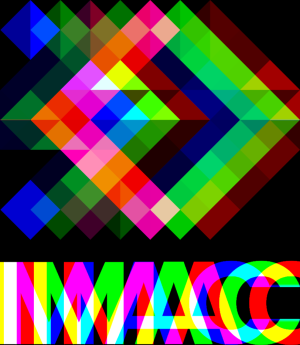
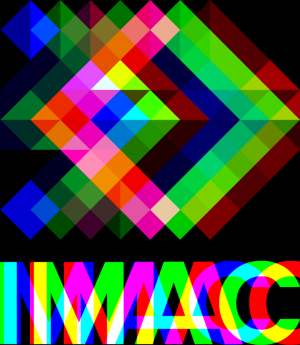
🤏 [Rgb Split] When sampling outside the image, use black instead of clamping to the nearest pixel

Changed region(s): [[0.0, 0.7536, 0.12, 1.0], [0.9, 0.8986, 1.0, 0.9565], [0.9, 0.8116, 1.0, 0.8406]]

diff --git a/src/RGB split.cpp b/src/RGB split.cpp
@@ -1,5 +1,16 @@
 #include "RGB split.hpp"
 
+// If the (x, y) coordinates are invalid, returns black instead of returning the pixel of the image.
+glm::vec3 sample_with_check(sil::Image const& image, int x, int y)
+{
+    if (x < 0 || x >= image.width() ||
+        y < 0 || y >= image.height())
+    {
+        return glm::vec3{0.f};
+    }
+    return image.pixel(x, y);
+}
+
 void rgb_split(sil::Image& image)
 {
     int const offset{30};
@@ -10,9 +21,9 @@ void rgb_split(sil::Image& image)
         for (int y{0}; y < result.height(); y++)
         {
             result.pixel(x, y) = glm::vec3{
-                image.pixel(std::max(x - offset, 0), y).r,
+                sample_with_check(image, x - offset, y).r,
                 image.pixel(x, y).g,
-                image.pixel(std::min(x + offset, image.width() - 1), y).b,
+                sample_with_check(image, x + offset, y).b,
             };
         }
     }
